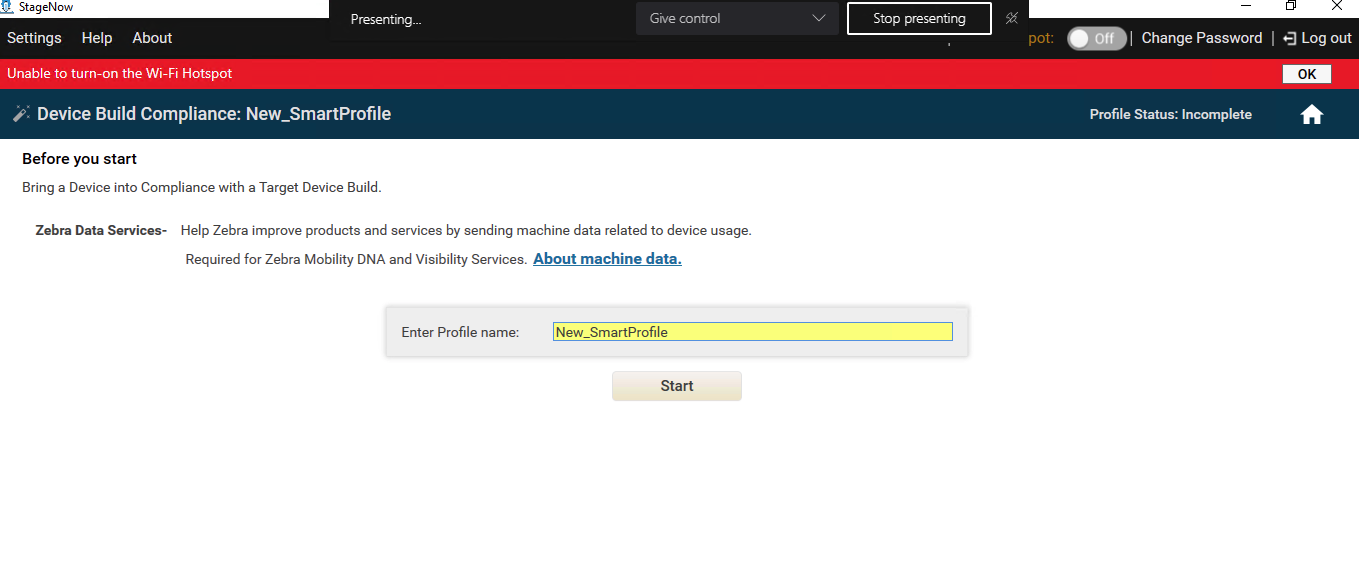
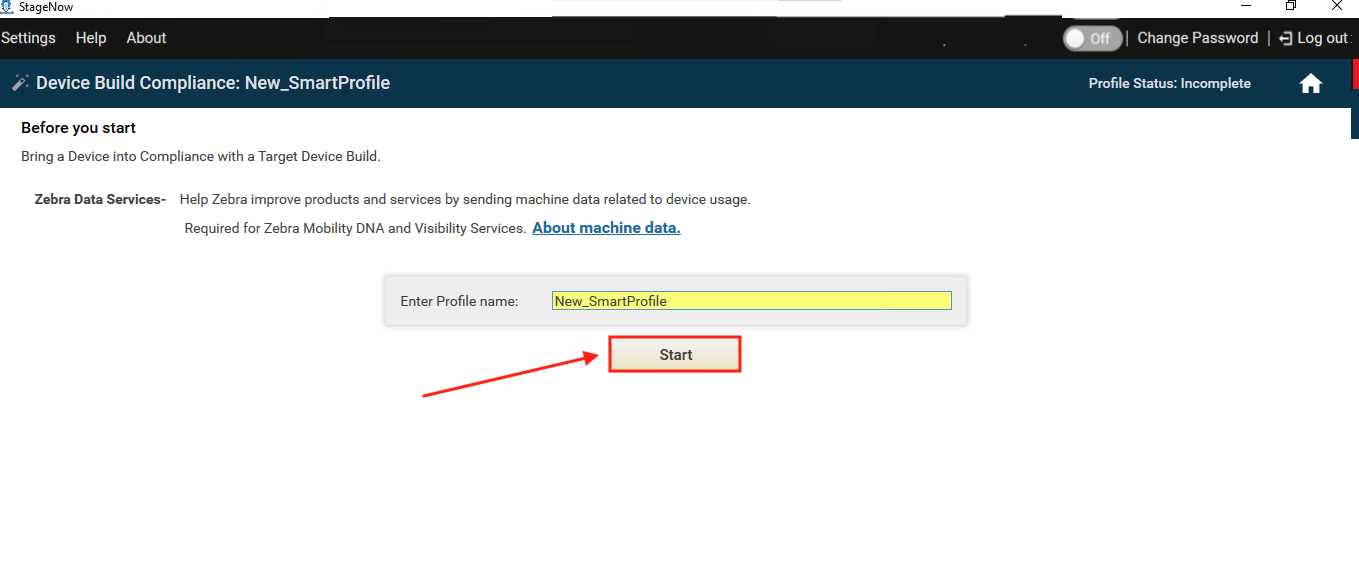
[TUT-42639] StageNow 5.0 Smart Profile page updates

diff --git a/src/stagenow/5-0/smartprofile/index.md b/src/stagenow/5-0/smartprofile/index.md
@@ -27,13 +27,13 @@ productversion: '5.0'
 
 ### I. Select LifeGuard Image(s)
 
-**Before creating a Smart Profile**, at least one LifeGuard device image must be selected from the "Browse LifeGuard Images" page: 
+**Before creating a Smart Profile**, at least one LifeGuard device image must be selected from the "Browse LifeGuard Images" page. **If LifeGuard images have already been selected, skip to Section II**.   
 
 #### To select a LifeGuard image:
 
 1. From the "<i class="fa fa-home" aria-hidden="true"></i> Home" screen, **click "My LifeGuard Updates"** in the left-hand pane. 
 2. **Click the "Browse for LifeGuard Updates" button** at the top of the screen.<br> Log in with Zebra OneCare credentials, if prompted. 
-3. If necessary, **check the required boxes to filter search results** to diplay images for desired target device(s). 
+3. If necessary, **check the required boxes to filter search results** and display images of desired target device(s). 
 4. **Click the "Show Results" button**. 
 5. **Click the icon in the "Add to My LifeGuard Updates" column** to select the desired images. 
 
@@ -44,31 +44,31 @@ _Click image to enlarge; ESC to exit_.<br>
 
 ### II. Create a Smart Profile
 
-As part of the Smart Profile process, StageNow examines the selected image, calculates all required Setting Types (CSPs) and creates the Profile steps necessary to deloy to the target device(s). **See Notes section below for important rules and restrictions**. 
+When creating a Smart Profile, StageNow examines the selected LifeGuard image, calculates all required Setting Types (CSPs) and creates all Profile steps necessary to deploy the image to the target device(s). 
+
+> **See Notes section below for important rules and restrictions**. 
 
 #### To create a Smart Profile:
 
 1. From the StageNow "<i class="fa fa-home" aria-hidden="true"></i> Home" screen, **click "My LifeGuard Updates"** in the left-hand pane:  
 <img alt="image" style="height:400px" src="sn50_smartprofile_02.png"/>
 _Click image to enlarge; ESC to exit_.<br>
-
-2. **Click the cloud icon** of the desired image (as shown below) to begin the download: 
+2. On the "My LifeGuard Updates" page, **click the cloud icon of the desired image** (as shown below) to begin a download.<br> Multiple images can be downloaded simultaneously, but **exiting the download screen cancels all remaining downloads**.
  <img alt="image" style="height:350px" src="sn50_smartprofile_03.png"/>
  _Click image to enlarge; ESC to exit_.<br>
 <br>
-
-3. When the download finishes, **click the Plus (+) symbol** to create a new Smart Profile:  
+3. <u>When the download completes</u>, **click the Plus (+) symbol** to create a new Smart Profile:  
  <img alt="image" style="height:350px" src="sn50_smartprofile_04.png"/>
  _Click image to enlarge; ESC to exit_.<br>
 <br>
-3. **Enter a name for the Smart Profile**:
+4. **Enter a name for the Smart Profile**. Then **click the "Start" button**:
  <img alt="image" style="height:350px" src="sn50_smartprofile_06.png"/>
  _Click image to enlarge; ESC to exit_.<br>
 <br>
 
 
 
-
+<!-- 
 
 4. To test a Dynamic Profile, **select a barcode type and click the "Test" button**: <br>
  <img alt="image" style="height:450px" src="SN41_dynamic_05.png"/>
@@ -102,15 +102,17 @@ Combine variables and static text as desired. An example is shown below.<br>
  <img alt="image" style="height:350px" src="SN41_dynamic_06.png"/>
  _Click image to enlarge; ESC to exit_.<br>
 <br>
-9. **Click "Publish Now"** to complete the process; distribute staging materials as normal. 
+9. **Click "Publish Now"** to complete the process; distribute staging materials as normal.  
 
-#### Dynamic Staging is complete
+-->
+
+#### The Smart Profile is now complete
 
 #### Notes
 
 * Multiple simultaneous downloads are possible.
 * Leaving the download screen cancels all downloads.   
-
+* more, yo
 
 -----
 
